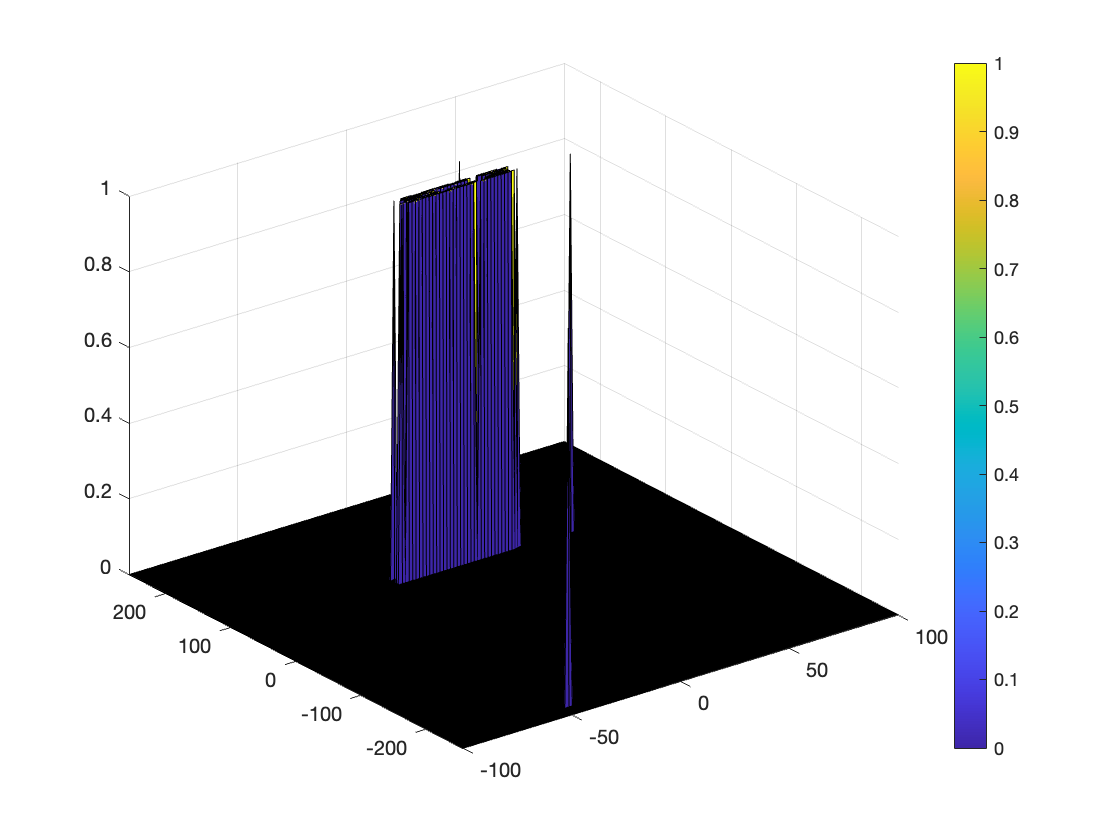
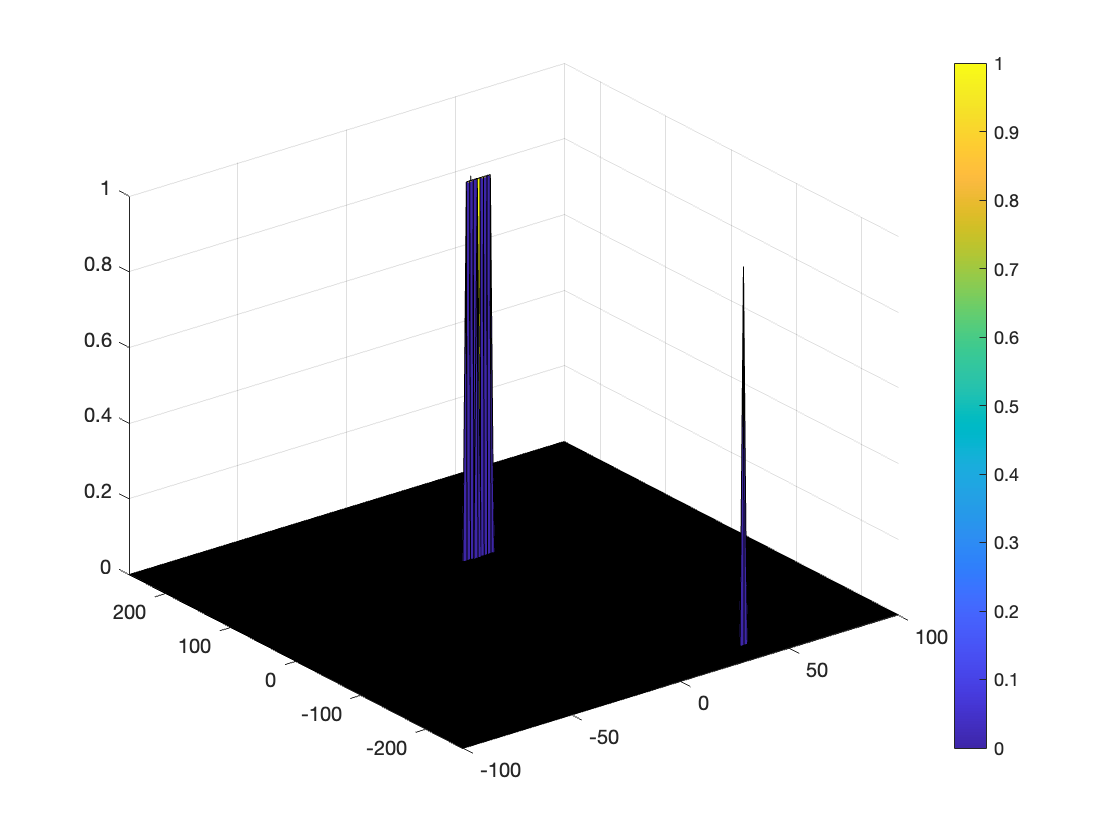
fix: Be able to suppress the noise

Changed region(s): [[0.3438, 0.1857, 0.4688, 0.7119], [0.5, 0.3095, 0.5312, 0.8357], [0.6562, 0.4643, 0.6875, 0.7738]]

diff --git a/README.md b/README.md
@@ -49,9 +49,9 @@ Implement the Range FFT on the Beat or Mixed Signal and plot the result
 Range Doppler Map   
 
 ![][image1]  
+### 2D CFAR  
 ![][image5] 
-
-### 2D CFAR   
+ 
 Implement the 2D CFAR process on the output of 2D FFT operation, i.e the Range Doppler Map  
 
 - Determine the number of Training cells for each dimension. Similarly, pick the number of guard cells.
@@ -79,20 +79,21 @@ offset = 1.2;
 
 ```
 for i=1:Nr/2-2*(Td+Gd)
-    for j=1:Nd-2*(Tr+Gr)
+     for j=1:Nd-2*(Tr+Gr)
+
     
            % Use RDM[x,y] as the matrix from the output of 2D FFT for implementing
            % CFAR
-         
-          train_noise_sum = db2pow(RDM(i:i+2*(Td+Gd),j:j+2*(Gr+Tr)));        
-          threshold = pow2db(train_noise_sum/training_cells);
-          threshold = threshold + offset;
+
+          train_noise_sum = db2pow(RDM(i:i+2*(Td+Gd),j:j+2*(Gr+Tr)));
+          noise_level(i,j) = pow2db(sum(sum(train_noise_sum))/training_cells);
+          threshold = noise_level(i,j)* offset;
           signal = RDM(i+Td+Gd,j+Td+Gr);
 
           if (signal > threshold)
-            signal = 0;
+            signal = 1;
           else
-            signal = 1;    
+            signal = 0;    
           end
           CFAR(i+Td+Gd,j+Td+Gr) = signal;
     end
